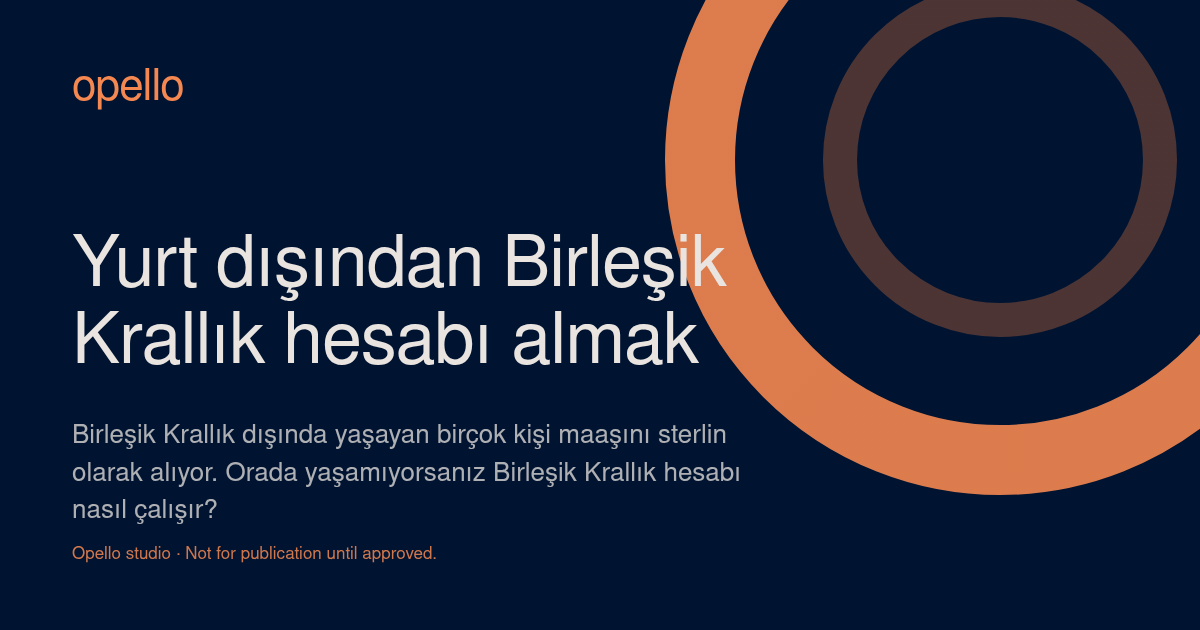
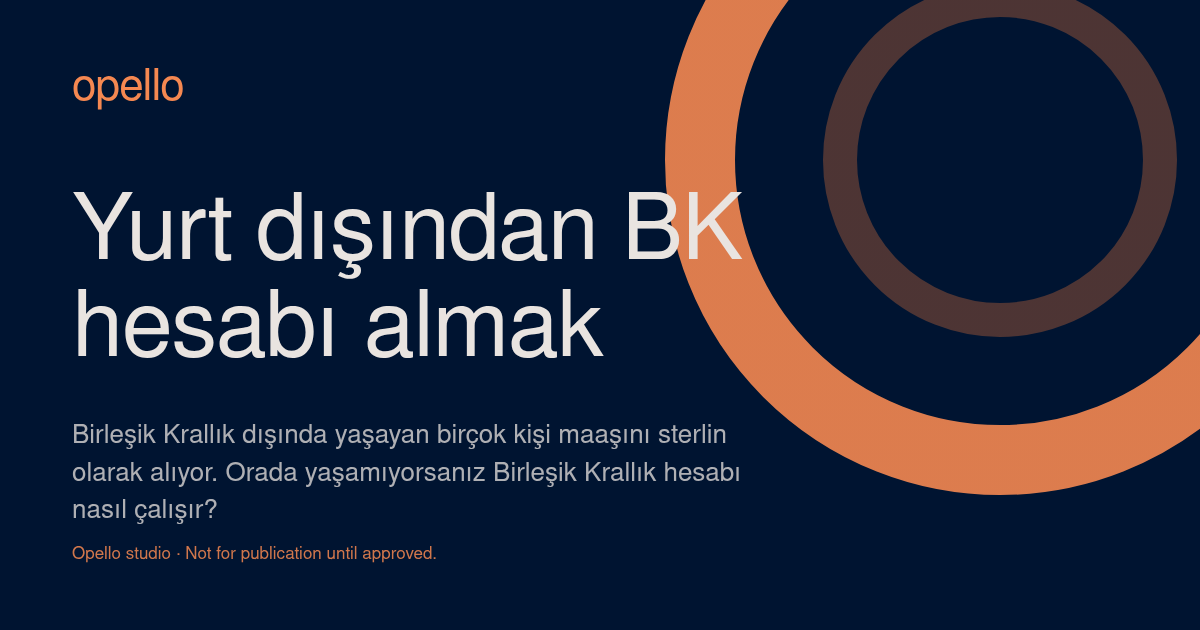
fix(tr): shorten the uk-account-from-abroad <title> — full 'Birleşik Krallık' form pushed the title to 77 chars (>70 guidance) once the translated suffix is appended; 'BK' is the standard Turkish abbreviation (63 chars total). og card regenerated. Cycle 2026-11-24: first full HTML structure validati
🪂 Generated with [Skydive](https://skydive.com)

Changed region(s): [[0.0617, 0.3016, 0.6167, 0.6032]]

diff --git a/src/lib/studio/pages-translated.ts b/src/lib/studio/pages-translated.ts
@@ -3725,7 +3725,7 @@ export const pagesByLang: Record<Lang, StudioPage[]> = {
     },
     {
       slug: "uk-account-from-abroad",
-      title: "Yurt dışından Birleşik Krallık hesabı almak",
+      title: "Yurt dışından BK hesabı almak", // BK = standard Turkish abbreviation for Birleşik Krallık; full form pushed the <title> to 77 chars (>70 guidance) once the translated suffix is appended
       kicker: "Açıklamalar",
       lede: "Birleşik Krallık dışında yaşayan birçok kişi maaşını sterlin olarak alıyor, Birleşik Krallık’ta mülk sahibi veya parayı Birleşik Krallık’a taşıması gerekiyor. Orada yaşamıyorsanız Birleşik Krallık hesabı nasıl çalışır, işte karşınızda.",
       metaDescription: "Birle\u015fik Krall\u0131k d\u0131\u015f\u0131nda ya\u015fayan bir\u00e7ok ki\u015fi maa\u015f\u0131n\u0131 sterlin olarak al\u0131yor. Orada ya\u015fam\u0131yorsan\u0131z Birle\u015fik Krall\u0131k hesab\u0131 nas\u0131l \u00e7al\u0131\u015f\u0131r?", // shorter than the lede for search snippets; lede untouched
